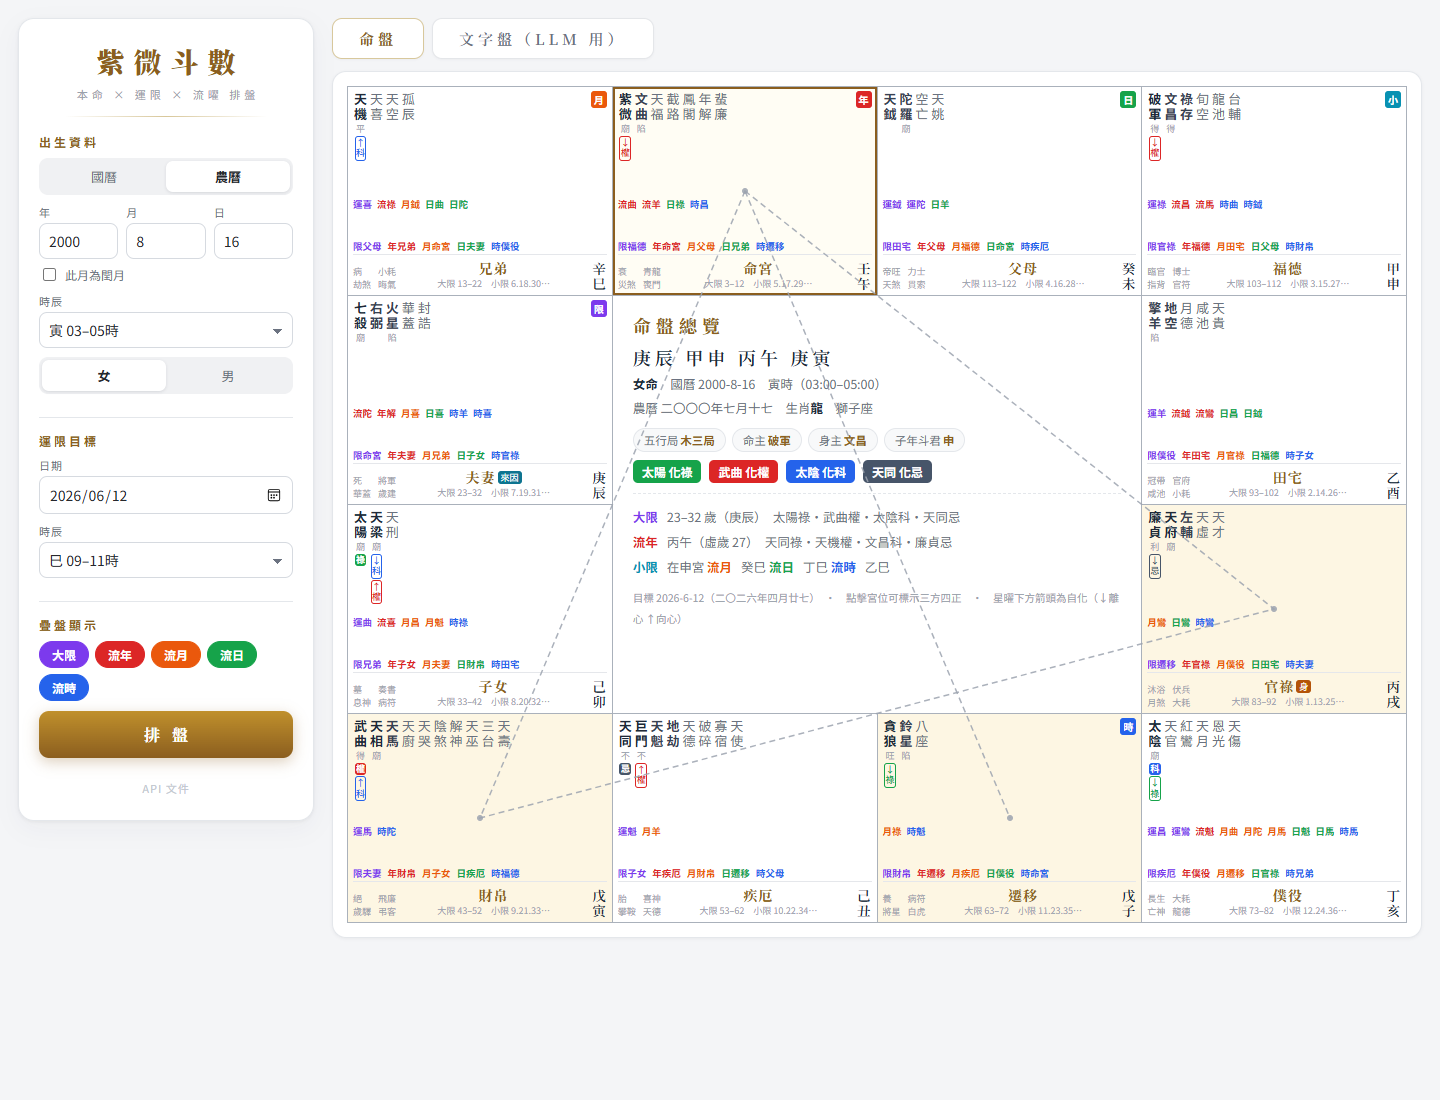
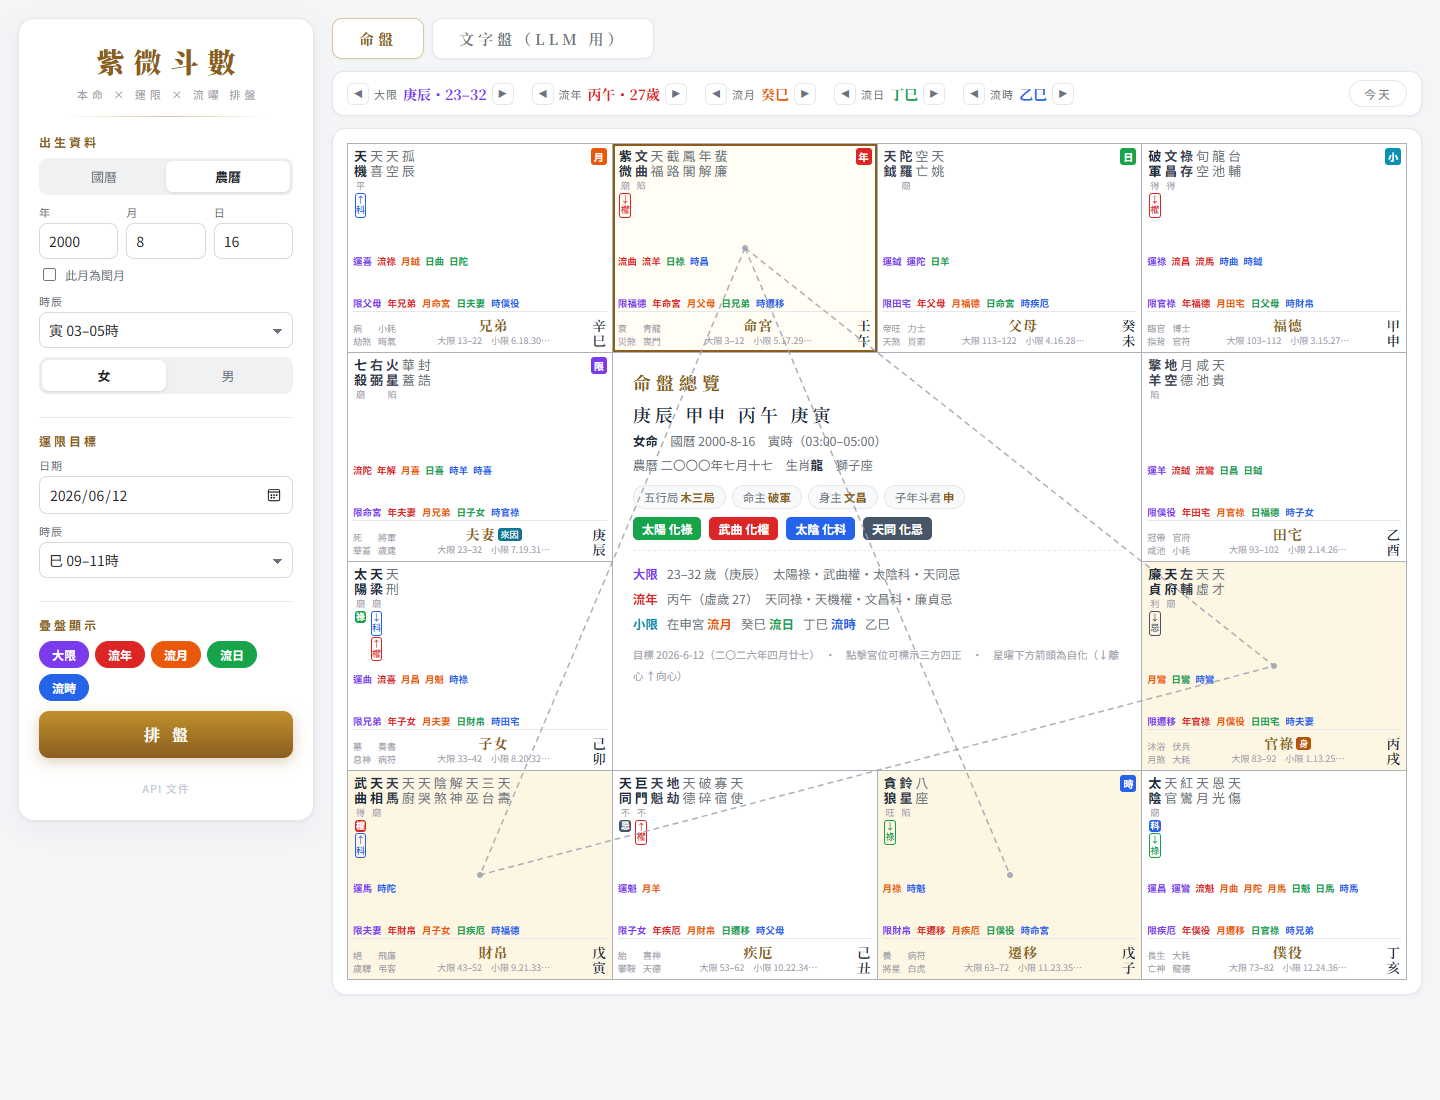
新增運限步進導航
- 盤面上方導航列：大限/流年/流月/流日/流時各維度 ◀▶ 前後切換＋回今天
- 步進日期由引擎以農曆語意精準計算（流月含閏月序、流年以農曆年、
  流時依時序循環跨日），隨 horoscope 回應之「導航」欄位回傳
- 側欄日期欄與導航雙向同步；e2e 新增步進與同步檢查

diff --git a/public/index.html b/public/index.html
@@ -83,6 +83,28 @@
   }
   #empty .big { font-family: "Noto Serif TC", serif; font-size: 22px; color: var(--muted); margin-bottom: 10px; letter-spacing: 6px; }
 
+  /* ── 運限導航列 ── */
+  #nav-bar {
+    background: var(--panel); border: 1px solid var(--line); border-radius: 12px;
+    padding: 8px 14px; margin-bottom: 12px; box-shadow: 0 1px 3px rgba(16,24,40,.05);
+    display: flex; flex-wrap: wrap; gap: 6px 18px; align-items: center;
+  }
+  .nav-item { display: inline-flex; align-items: center; gap: 5px; }
+  .nav-item .lab { font-size: 11px; color: var(--muted); letter-spacing: 1px; }
+  .nav-item .val { font-family: "Noto Serif TC", serif; font-size: 14px; font-weight: 700; min-width: 0; white-space: nowrap; }
+  .nav-btn {
+    width: 22px; height: 22px; line-height: 20px; padding: 0; text-align: center;
+    border: 1px solid var(--line); border-radius: 6px; background: #fff; color: var(--muted);
+    cursor: pointer; font-size: 11px; transition: .12s;
+  }
+  .nav-btn:hover:not(:disabled) { border-color: var(--brand-soft); color: var(--brand); }
+  .nav-btn:disabled { opacity: .35; cursor: default; }
+  #nav-today {
+    margin-left: auto; font-size: 12px; padding: 4px 14px; border-radius: 999px;
+    border: 1px solid var(--line); background: #fff; color: var(--muted); cursor: pointer; letter-spacing: 2px;
+  }
+  #nav-today:hover { border-color: var(--brand-soft); color: var(--brand); }
+
   /* ── 命盤（文墨式：白底、細線連格、星曜直書） ── */
   #board-wrap { background: var(--panel); border: 1px solid var(--line); border-radius: 14px; padding: 14px; box-shadow: 0 1px 3px rgba(16, 24, 40, .05); }
   #grid {
@@ -231,6 +253,7 @@
 
     <section id="view-chart">
       <div id="empty"><div class="big">未　排　盤</div>輸入出生資料後按「排盤」</div>
+      <div id="nav-bar" style="display:none"></div>
       <div id="board-wrap" style="display:none"><div id="grid"></div></div>
     </section>
 
@@ -333,13 +356,51 @@ async function 排盤() {
     文字 = 文回;
     document.getElementById('empty').style.display = 'none';
     document.getElementById('board-wrap').style.display = '';
+    document.getElementById('nav-bar').style.display = 'flex';
     document.getElementById('text-pane').textContent = 文字;
+    繪導航();
     繪盤();
   } catch (e) {
     document.getElementById('error').textContent = '排盤失敗：' + e.message;
   } finally {
     btn.disabled = false; btn.textContent = '排盤';
   }
+}
+
+/* ── 運限導航列 ── */
+function 跳轉(target) {
+  if (!target) return;
+  document.getElementById('targetDate').value = target.targetDate;
+  document.getElementById('targetTimeIndex').value = target.targetTimeIndex;
+  排盤();
+}
+
+function 繪導航() {
+  const { 運限 } = 資料;
+  const N = 運限.導航 || {};
+  const bar = document.getElementById('nav-bar');
+  const 項目 = [
+    ['大限', `${運限.大限.天干}${運限.大限.地支}・${運限.大限.起}–${運限.大限.迄}`, N.大限, 'var(--c運)'],
+    ['流年', `${運限.流年.天干}${運限.流年.地支}・${運限.虛歲}歲`, N.流年, 'var(--c年)'],
+    ['流月', `${運限.流月.天干}${運限.流月.地支}`, N.流月, 'var(--c月)'],
+    ['流日', `${運限.流日.天干}${運限.流日.地支}`, N.流日, 'var(--c日)'],
+    ['流時', `${運限.流時.天干}${運限.流時.地支}`, N.流時, 'var(--c時)'],
+  ];
+  bar.innerHTML = 項目.map(([名, 值, nav, 色], i) => `
+    <span class="nav-item">
+      <button class="nav-btn" data-k="${i}" data-dir="上" ${nav && nav.上 ? '' : 'disabled'}>◀</button>
+      <span class="lab">${名}</span><span class="val" style="color:${色}">${值}</span>
+      <button class="nav-btn" data-k="${i}" data-dir="下" ${nav && nav.下 ? '' : 'disabled'}>▶</button>
+    </span>`).join('') + `<button id="nav-today">今天</button>`;
+  const keys = ['大限', '流年', '流月', '流日', '流時'];
+  bar.querySelectorAll('.nav-btn').forEach((btn) => {
+    btn.addEventListener('click', () => 跳轉(N[keys[btn.dataset.k]][btn.dataset.dir]));
+  });
+  document.getElementById('nav-today').addEventListener('click', () => {
+    document.getElementById('targetDate').valueAsDate = new Date();
+    document.getElementById('targetTimeIndex').value = 0;
+    排盤();
+  });
 }
 
 /* ── 渲染 ── */

diff --git a/src/horoscope.js b/src/horoscope.js
@@ -116,6 +116,64 @@ function 排運限(本命, 目標) {
     目標農曆: 曆.農曆中文(農曆.年, 農曆.月, 農曆.日, 農曆.閏),
     虛歲,
     大限, 小限, 流年, 流月, 流日, 流時,
+    導航: 計算導航(農曆, 國曆, 時辰),
+  };
+}
+
+/* ── 運限步進導航：計算各維度前後一步的目標日期（農曆語意精準） ── */
+
+const 補零 = (n) => String(n).padStart(2, '0');
+const 國曆字串 = (s) => `${s.年}-${補零(s.月)}-${補零(s.日)}`;
+
+/** 農曆月份步進（含閏月序：…四月→閏四月→五月…） */
+function 步進農曆月(年, 月, 閏, 方向) {
+  if (方向 > 0) {
+    if (!閏 && 曆.閏月(年) === 月) return { 年, 月, 閏: true };
+    if (月 === 12) return { 年: 年 + 1, 月: 1, 閏: false };
+    return { 年, 月: 月 + 1, 閏: false };
+  }
+  if (閏) return { 年, 月, 閏: false };
+  if (月 === 1) return { 年: 年 - 1, 月: 12, 閏: 曆.閏月(年 - 1) === 12 };
+  return { 年, 月: 月 - 1, 閏: 曆.閏月(年) === 月 - 1 };
+}
+
+/** 農曆日期轉國曆字串，日數超過該月天數時夾至月底 */
+function 轉國曆夾日(年, 月, 日, 閏) {
+  const 上限 = 閏 ? 曆.閏月天數(年) : 曆.月天數(年, 月);
+  const s = 曆.農曆轉國曆(年, 月, Math.min(日, 上限), 閏);
+  return 國曆字串(s);
+}
+
+function 計算導航(農曆, 國曆, 時辰) {
+  const 安全 = (fn) => { try { return fn(); } catch { return null; } };
+  const 步年 = (差) => 安全(() => {
+    const 年 = 農曆.年 + 差;
+    const 閏 = 農曆.閏 && 曆.閏月(年) === 農曆.月;
+    return { targetDate: 轉國曆夾日(年, 農曆.月, 農曆.日, 閏), targetTimeIndex: 時辰 };
+  });
+  const 步月 = (方向) => 安全(() => {
+    const m = 步進農曆月(農曆.年, 農曆.月, 農曆.閏, 方向);
+    return { targetDate: 轉國曆夾日(m.年, m.月, 農曆.日, m.閏), targetTimeIndex: 時辰 };
+  });
+  const 步日 = (差) => 安全(() => {
+    const d = new Date(Date.UTC(國曆.年, 國曆.月 - 1, 國曆.日) + 差 * 86400000);
+    return { targetDate: 國曆字串({ 年: d.getUTCFullYear(), 月: d.getUTCMonth() + 1, 日: d.getUTCDate() }), targetTimeIndex: 時辰 };
+  });
+  // 流時依時序循環：…亥(11)→晚子(12)→翌日早子(0)→丑(1)…
+  const 步時 = (方向) => 安全(() => {
+    let t = 時辰 + 方向;
+    let 跨日 = 0;
+    if (t > 12) { t = 0; 跨日 = 1; }
+    if (t < 0) { t = 12; 跨日 = -1; }
+    const d = new Date(Date.UTC(國曆.年, 國曆.月 - 1, 國曆.日) + 跨日 * 86400000);
+    return { targetDate: 國曆字串({ 年: d.getUTCFullYear(), 月: d.getUTCMonth() + 1, 日: d.getUTCDate() }), targetTimeIndex: t };
+  });
+  return {
+    大限: { 上: 步年(-10), 下: 步年(10) },
+    流年: { 上: 步年(-1), 下: 步年(1) },
+    流月: { 上: 步月(-1), 下: 步月(1) },
+    流日: { 上: 步日(-1), 下: 步日(1) },
+    流時: { 上: 步時(-1), 下: 步時(1) },
   };
 }
 

diff --git a/tools/browser-test.js b/tools/browser-test.js
@@ -94,6 +94,24 @@ const 問題 = [];
     await page.click('#grid .palace[data-idx="4"]'); // 重新選取供截圖
 
 
+    console.log('4.5) 運限導航步進');
+    const 流月前 = await page.$$eval('#nav-bar .nav-item .val', (els) => els[2].textContent);
+    await page.click('#nav-bar .nav-item:nth-of-type(3) .nav-btn[data-dir="下"]');
+    await page.waitForFunction(
+      (prev) => { const els = document.querySelectorAll('#nav-bar .nav-item .val'); return els[2] && els[2].textContent !== prev; },
+      { timeout: 20000 }, 流月前
+    );
+    const 流月後 = await page.$$eval('#nav-bar .nav-item .val', (els) => els[2].textContent);
+    console.log(`   流月 ${流月前} ▶ ${流月後} ${流月前 === '癸巳' && 流月後 === '甲午' ? '✓' : '✗'}`);
+    if (!(流月前 === '癸巳' && 流月後 === '甲午')) 問題.push(`流月步進異常: ${流月前}→${流月後}`);
+    const 日期同步 = await page.$eval('#targetDate', (el) => el.value);
+    console.log(`   日期欄同步為 ${日期同步} ${日期同步 === '2026-07-11' ? '✓' : '✗'}`);
+    if (日期同步 !== '2026-07-11') 問題.push('導航未同步日期欄: ' + 日期同步);
+    // 跳回原目標日供後續測試
+    await page.evaluate(() => { document.getElementById('targetDate').value = '2026-06-12'; });
+    await page.click('#go');
+    await new Promise((r) => setTimeout(r, 2500));
+
     console.log('5) 文字盤分頁');
     await page.click('.tab[data-view="text"]');
     const 文字 = await page.$eval('#text-pane', (el) => el.textContent);